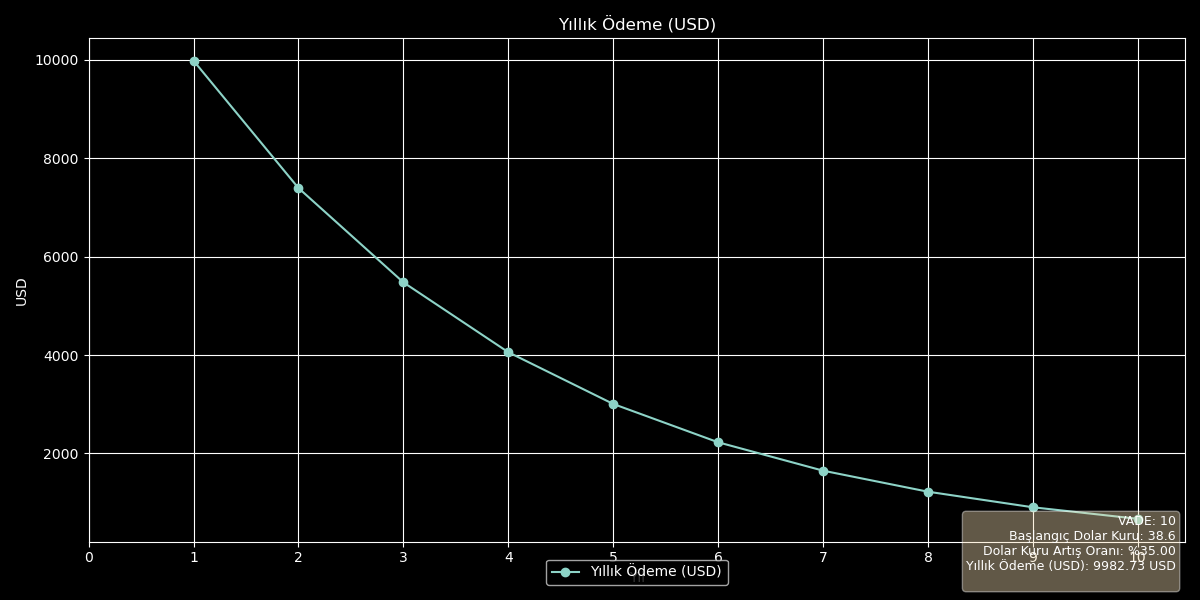
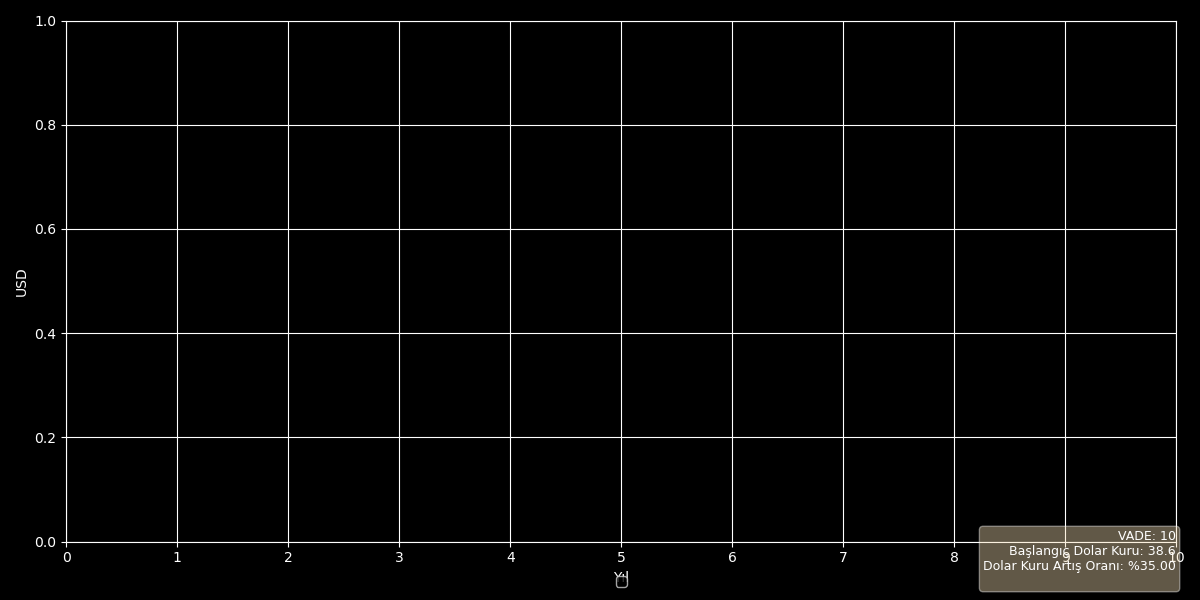
Info Texts are updated

diff --git a/main.py b/main.py
@@ -121,13 +121,22 @@ def make_plots(config, data, args):
     use_months = args.use_months
     dollar_growth_rate = config.dollar_growth_rate_annual if not use_months else config.dollar_growth_rate_monthly
     total_steps = years * 12 if use_months else years
+    initial_dollar_rate = data['dollar_rates_monthly'][0] if use_months else data['dollar_rates_annual'][0]
     title_tr, title_en, saving_title = '', '', ''
     language = config.language
     info_text_tr = (
         f"VADE: {config.years:,}\n"
+        f"Ortalama Dolar Kuru Artış Oranı: {dollar_growth_rate*100:,.2f}%\n"
+        f"Başlangıç Dolar Kuru (TL): {initial_dollar_rate:,.2f} TL\n"
+        f"Türkiye Enflasyon Oranı: {config.turkey_inflation_rate*100:,.2f}%\n"
+        f"Amerika Enflasyon Oranı: {config.usa_inflation_rate*100:,.2f}%\n"
     )
     info_text_en = (
         f"Loan Period: {config.years:,}\n"
+        f"Average Dollar Increase Rate: {dollar_growth_rate*100:,.2f}%\n"
+        f"Initial Dollar Rate (TL): {initial_dollar_rate:,.2f} TL\n"
+        f"Turkey Inflation Rate: {config.turkey_inflation_rate*100:,.2f}%\n"
+        f"USA Inflation Rate: {config.usa_inflation_rate*100:,.2f}%\n"
     )
     if args.plot_annual_payment_usd:
         y_data = data['monthly_payment_usd'] if use_months else data['annual_payment_usd']
@@ -167,6 +176,8 @@ def make_plots(config, data, args):
         saving_title += 'salary_'
         info_text_tr += f"Euro/$ Kuru: {config.euro_dollar_rate:,.2f}\n"
         info_text_en += f"Euro/$ Rate: {config.euro_dollar_rate:,.2f}\n"
+        info_text_tr += f"Başlangıç Maaş (USD): {y_data[0]:,.2f} USD\n"
+        info_text_en += f"Initial Salary (USD): {y_data[0]:,.2f} USD\n"
 
     if args.plot_cumulative_payment_usd:
         y_data = data['cumulative_payment_usd_monthly'] if use_months else data['cumulative_payment_usd_annual']
@@ -240,6 +251,8 @@ def make_plots(config, data, args):
         title_tr += 'Kira Fiyatı (USD) '
         title_en += 'Rent Price (USD) '
         saving_title += 'rent_price_'
+        info_text_tr += f"Başlangıç Kira Fiyatı (TL): {y_data[0]*initial_dollar_rate:,.2f} TL\n"
+        info_text_en += f"Initial Rent Price (TL): {y_data[0]*initial_dollar_rate:,.2f} TL\n"
     
     if args.plot_cumulative_rent_price_usd:
         y_data = data['cumulative_rent_price_usd_yearly'] if not use_months else data['cumulative_rent_price_usd_monthly']
@@ -250,6 +263,8 @@ def make_plots(config, data, args):
         title_tr += 'Kümülatif Kira Fiyatı (USD) '
         title_en += 'Cumulative Rent Price (USD) '
         saving_title += 'cumulative_rent_price_'
+        info_text_tr += f"Başlangıç Kira Fiyatı (TL): {y_data[0]*initial_dollar_rate:,.2f} TL\n"
+        info_text_en += f"Initial Rent Price (TL): {y_data[0]*initial_dollar_rate:,.2f} TL\n"
     
     if args.plot_payment_and_rent_ratio_with_salary:
         dollar_salaries = data['dollar_salaries']
@@ -293,7 +308,7 @@ def make_plots(config, data, args):
     plt.grid(True)
     plt.tight_layout()
 
-    plt.gcf().text(0.98, 0.02, info_text_tr if language == 'Türkçe' else info_text_en, fontsize=9, verticalalignment='bottom', horizontalalignment='center',
+    plt.gcf().text(0.9, -0.05, info_text_tr if language == 'Türkçe' else info_text_en, fontsize=9, verticalalignment='bottom', horizontalalignment='center',
                    bbox=dict(boxstyle="round", facecolor="wheat", alpha=0.4))
 
     if config.save_plots:
